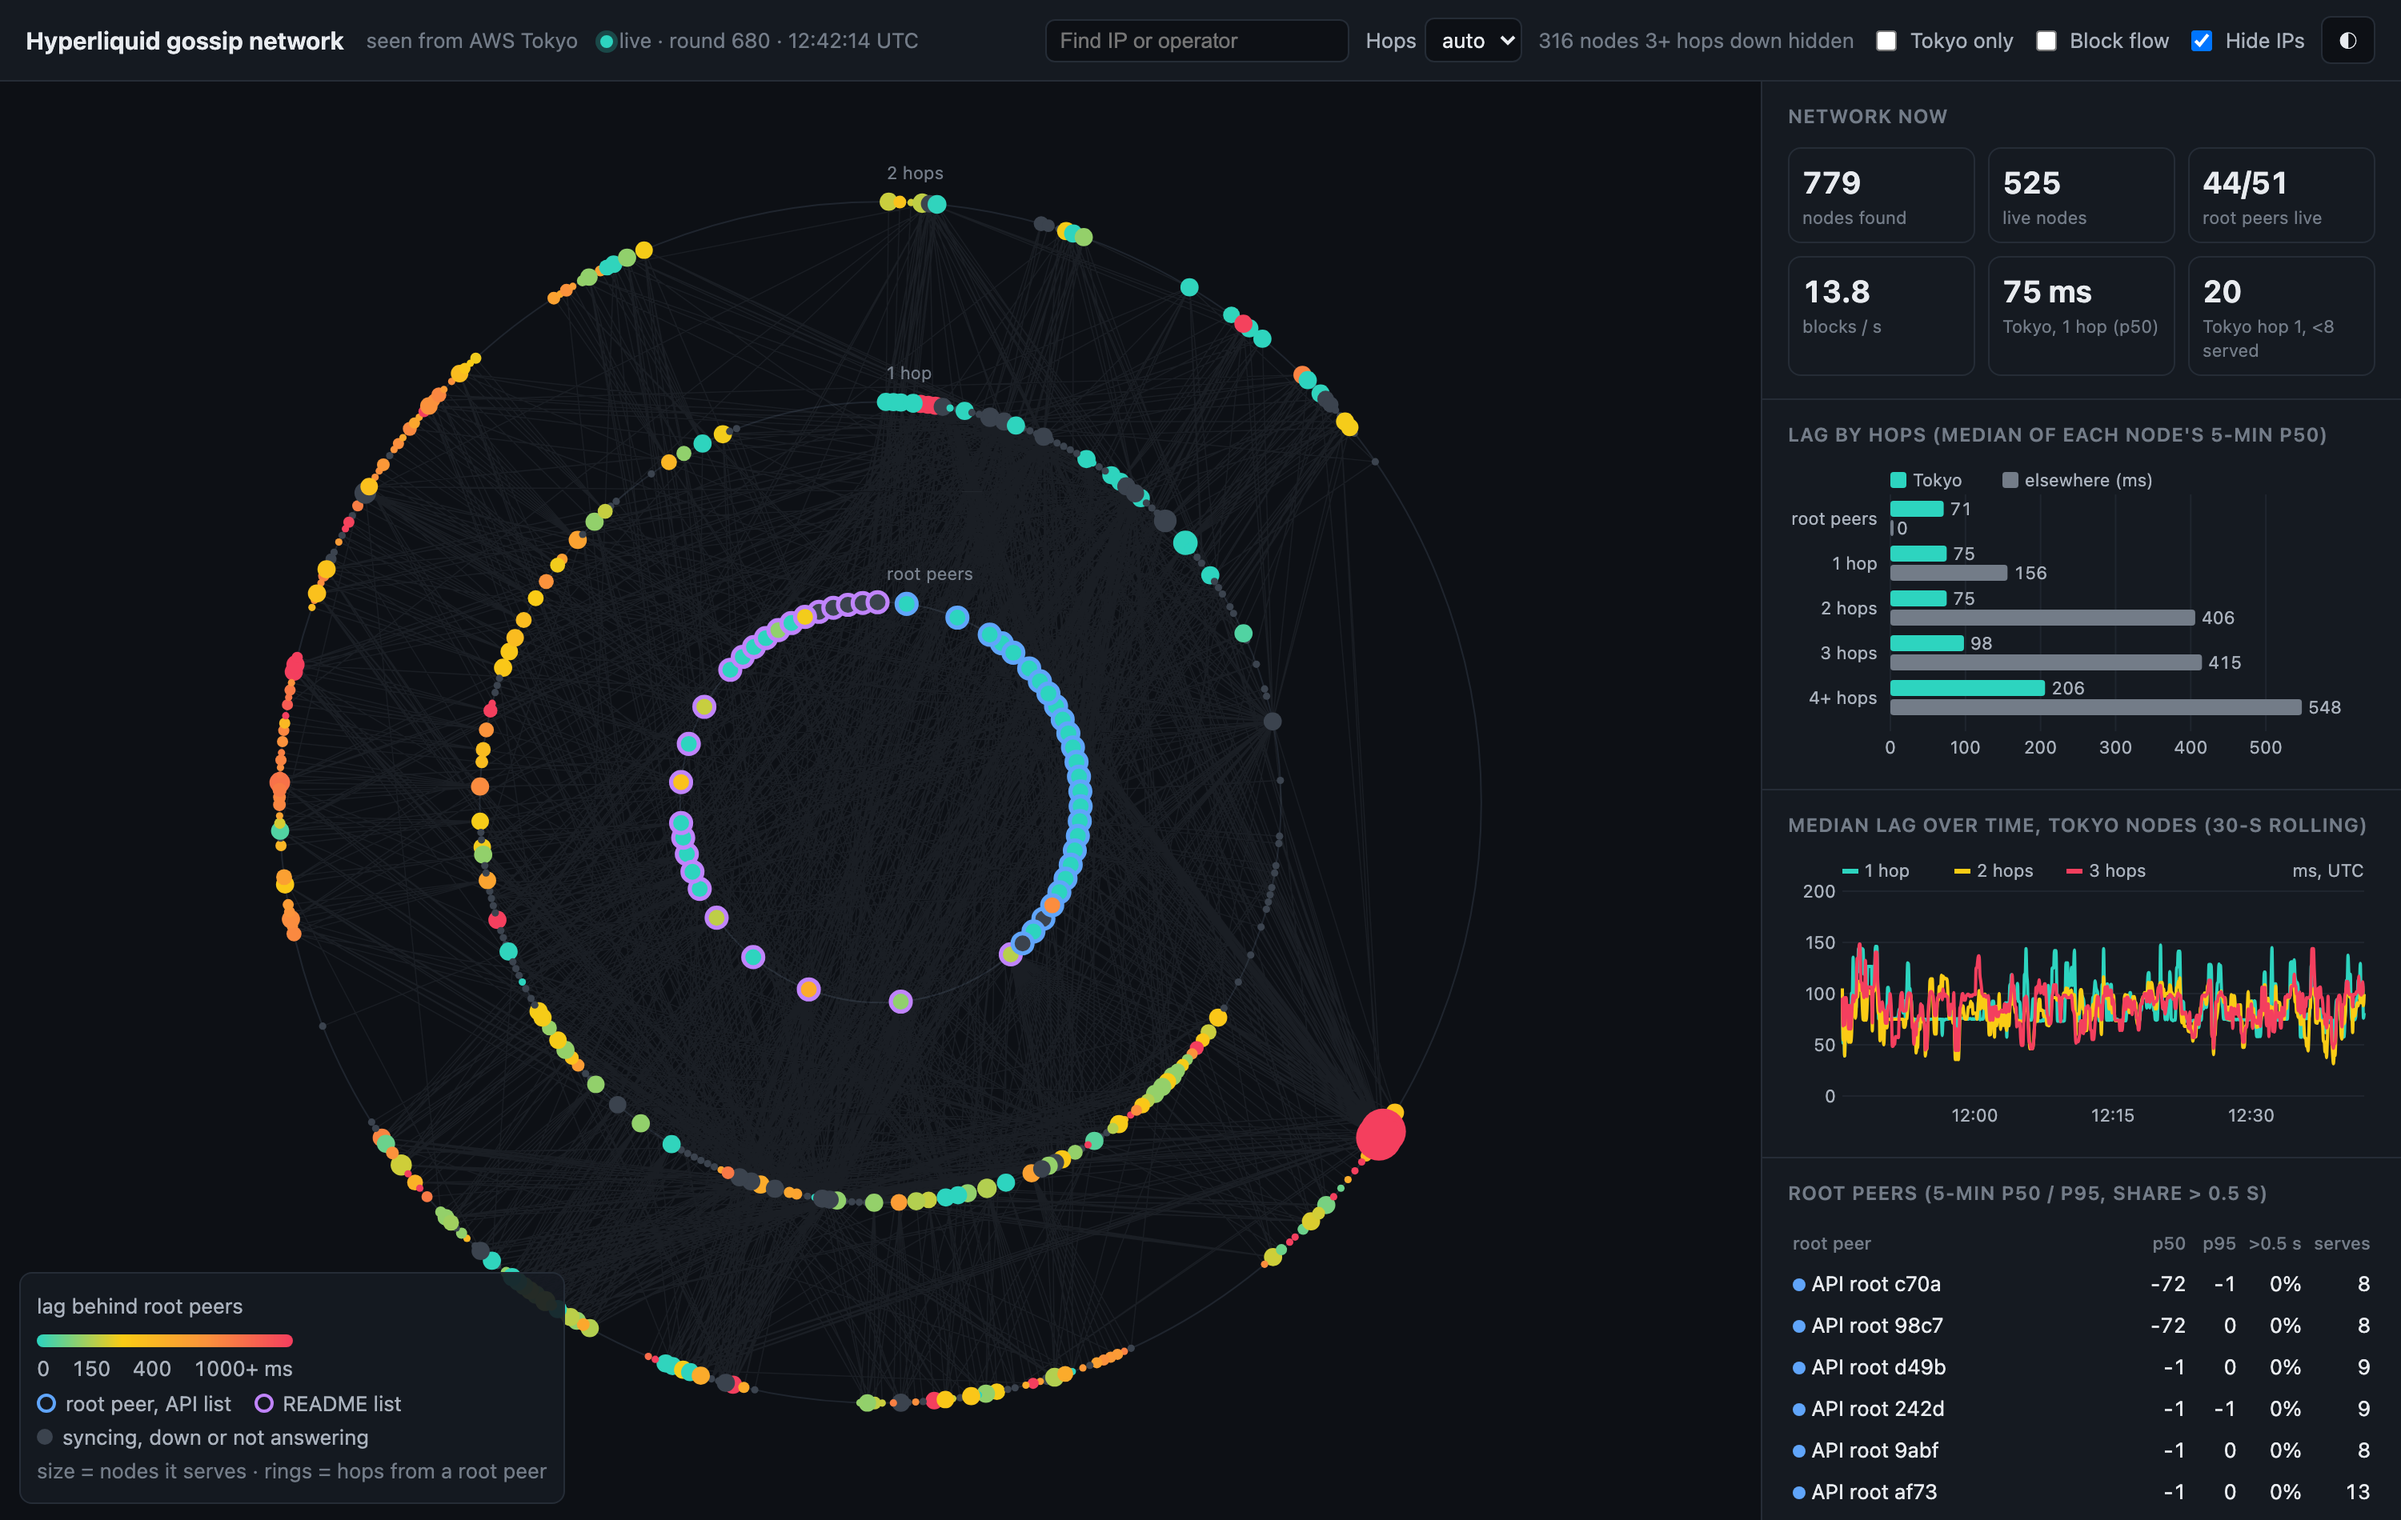
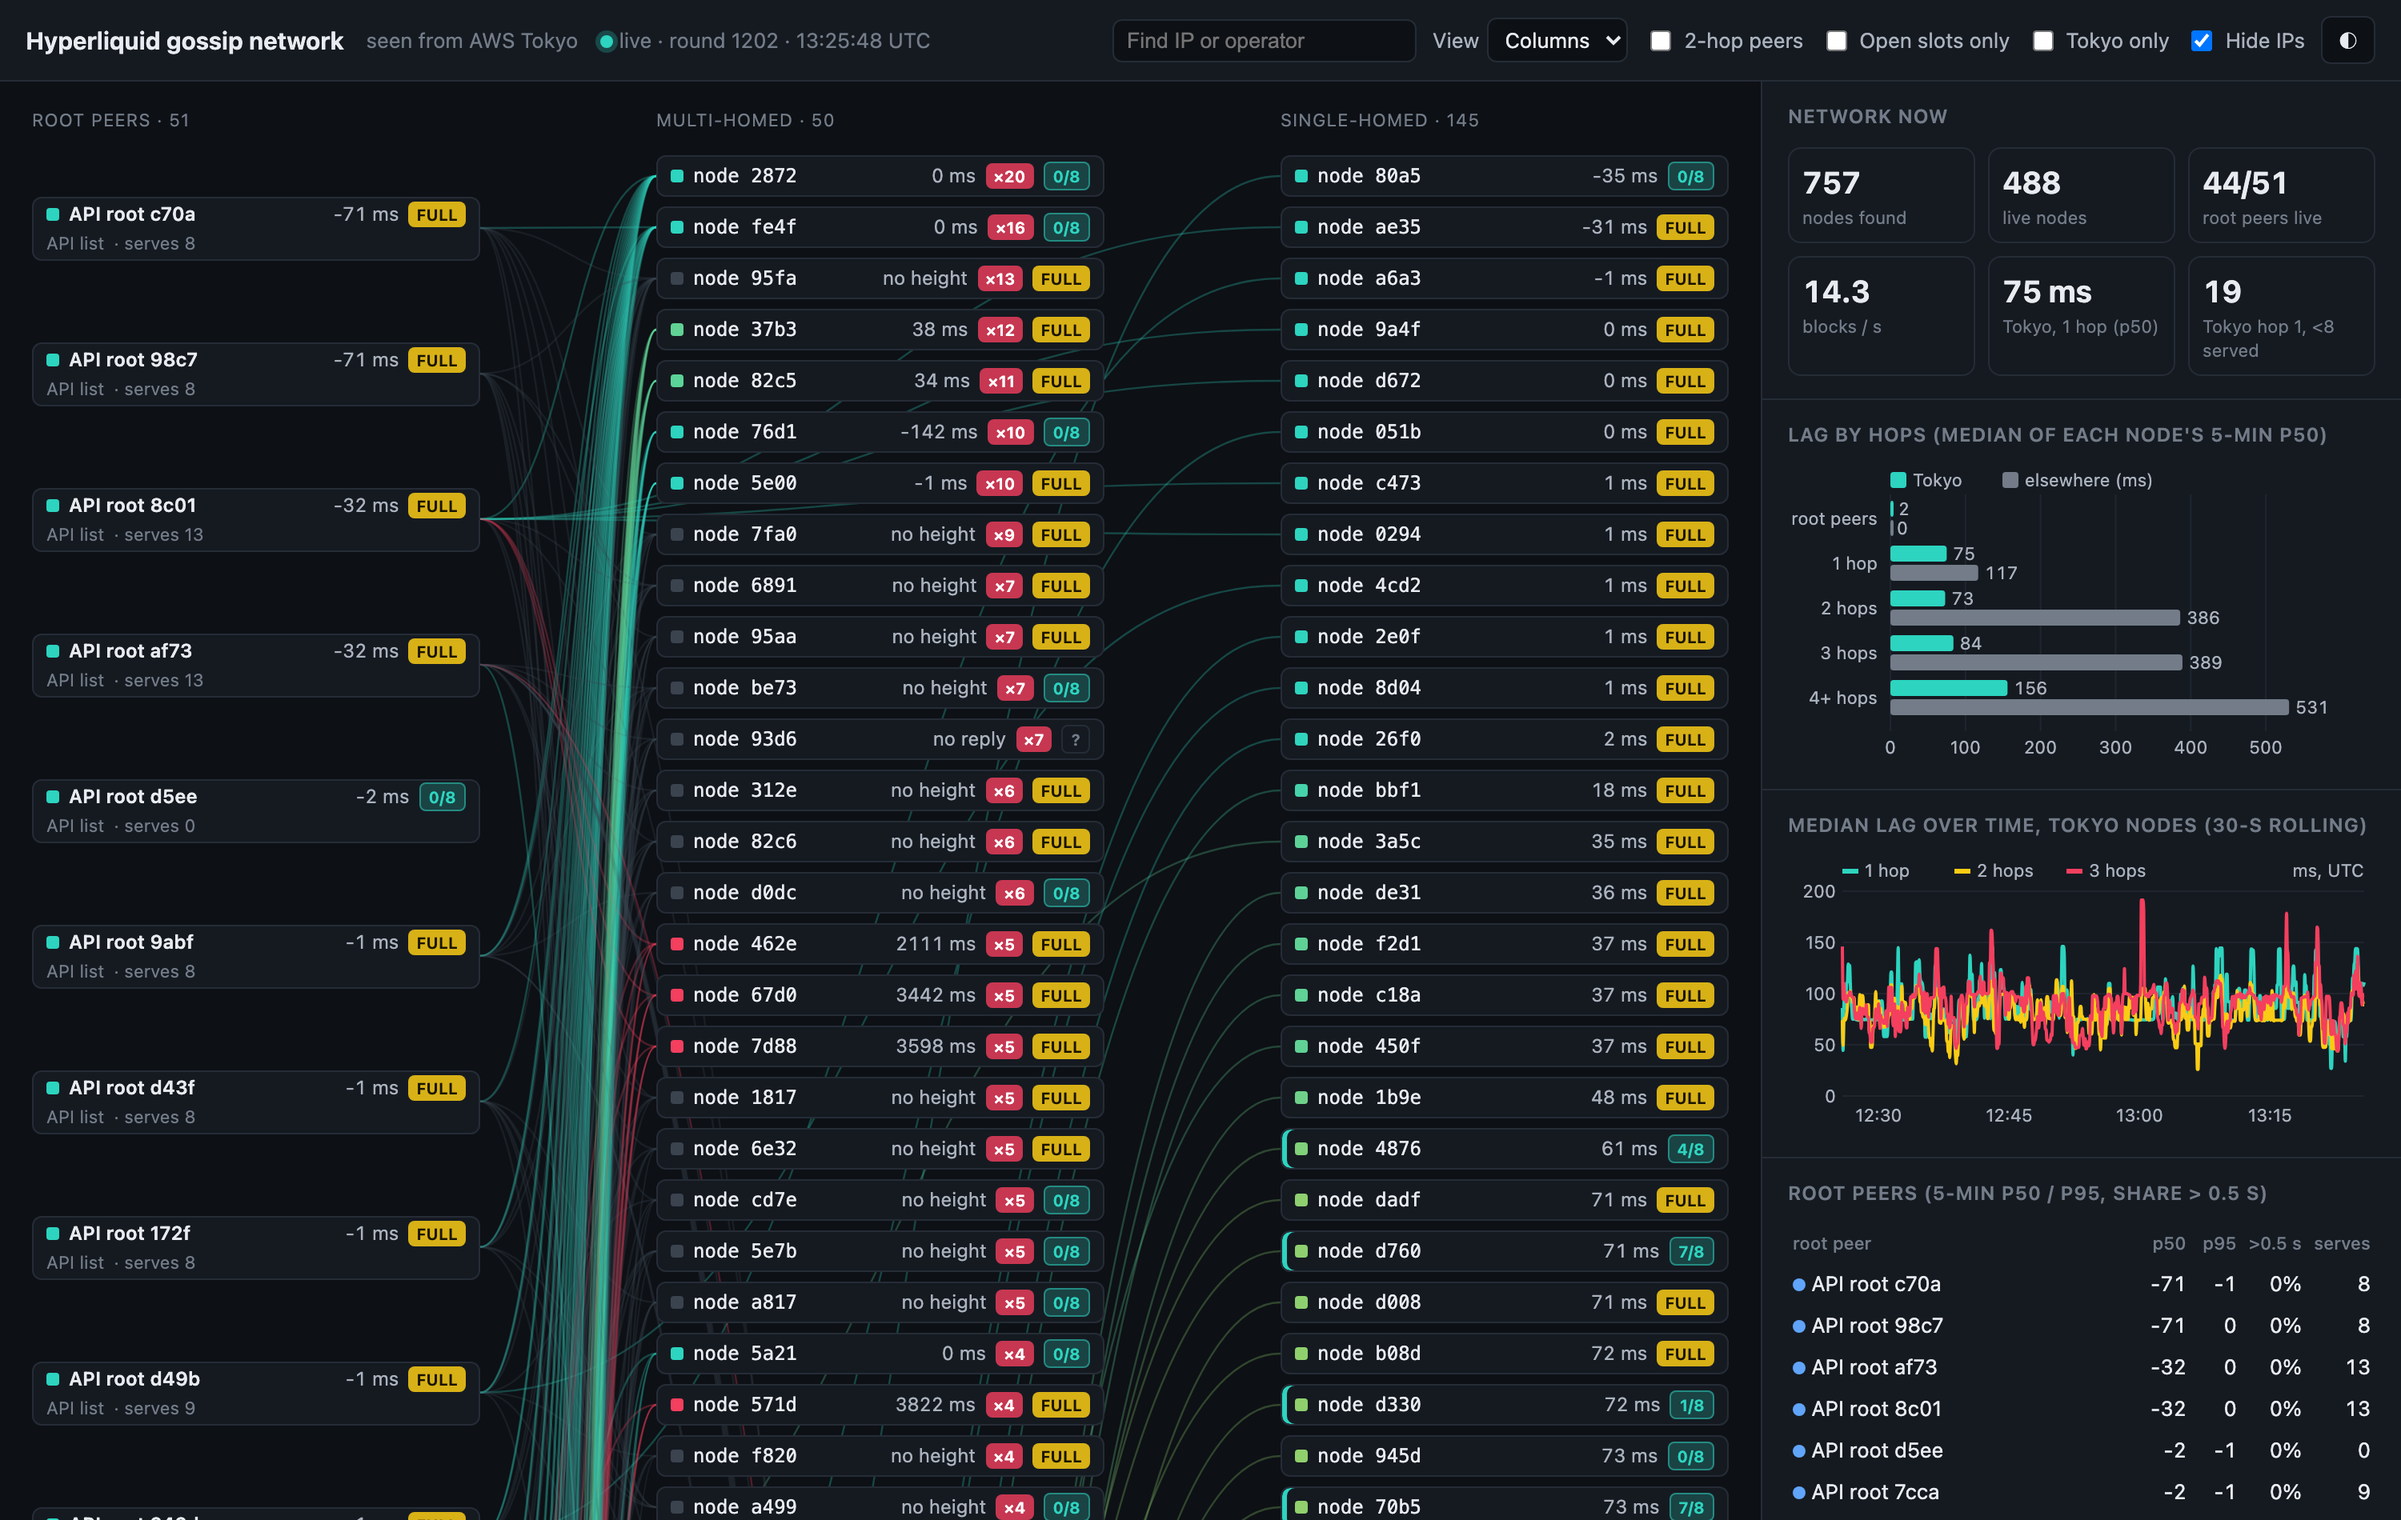
Show the dashboard's column view in article 003
Figure 9 now shows root peers, multi-homed and single-homed peers in
columns with live lag per node; caption and text updated.

Claude-Session: https://claude.ai/code/session_01J1XFVkyFFdQmsV45gKMzGd

diff --git a/003-hyperliquid-peering/README.md b/003-hyperliquid-peering/README.md
@@ -98,9 +98,9 @@ Running the crawler by hand and reading its output was fine for one article but 
 
 ![Our internal dashboard of the gossip network](assets/fig9-dashboard.png)
 
-*Figure 9. Our internal gossip dashboard, with IP addresses hidden. Each node sits on a ring by its hops from a root peer and is coloured by its current lag behind the root peers. When the network has more than 300 nodes, nodes three or more hops down are left off the graph (316 at the time) but still count in the panels. The panels on the right show the network totals, lag by hops, the median lag of Tokyo nodes over time and each root peer's recent lag. Screenshot taken at 12:42 UTC on 2026-11-13.*
+*Figure 9. Our internal gossip dashboard, with IP addresses hidden. Root peers are on the left, then the nodes streaming from two or more root peers (with how many) and from just one. Each card shows the node's median lag behind the root peers over the last five minutes and whether it still has free slots, and each link is coloured by the lag of the node it feeds. Nodes two or more hops down are hidden unless switched on. Screenshot taken at 13:25 UTC on 2026-11-13.*
 
-Clicking a node shows its path up to the root peers, the nodes it serves and its lag over the last few minutes. A side panel lists the Tokyo nodes one hop below a root peer that still have free slots, ranked by their lag over the last five minutes, and can write them out as an `override_gossip_config.json`. We use it to pick peers before we start or restart a node, and to check whether the root peer above our node has started to fall behind.
+Hovering over a node highlights its path up to the root peers and the nodes it serves; clicking it shows its lag over the last few minutes. A side panel lists the Tokyo nodes one hop below a root peer that still have free slots, ranked by their lag over the last five minutes, and can write them out as an `override_gossip_config.json`. We use it to pick peers before we start or restart a node, and to check whether the root peer above our node has started to fall behind.
 
 ## Appendix: the gossip messages and how we measured lag
 
